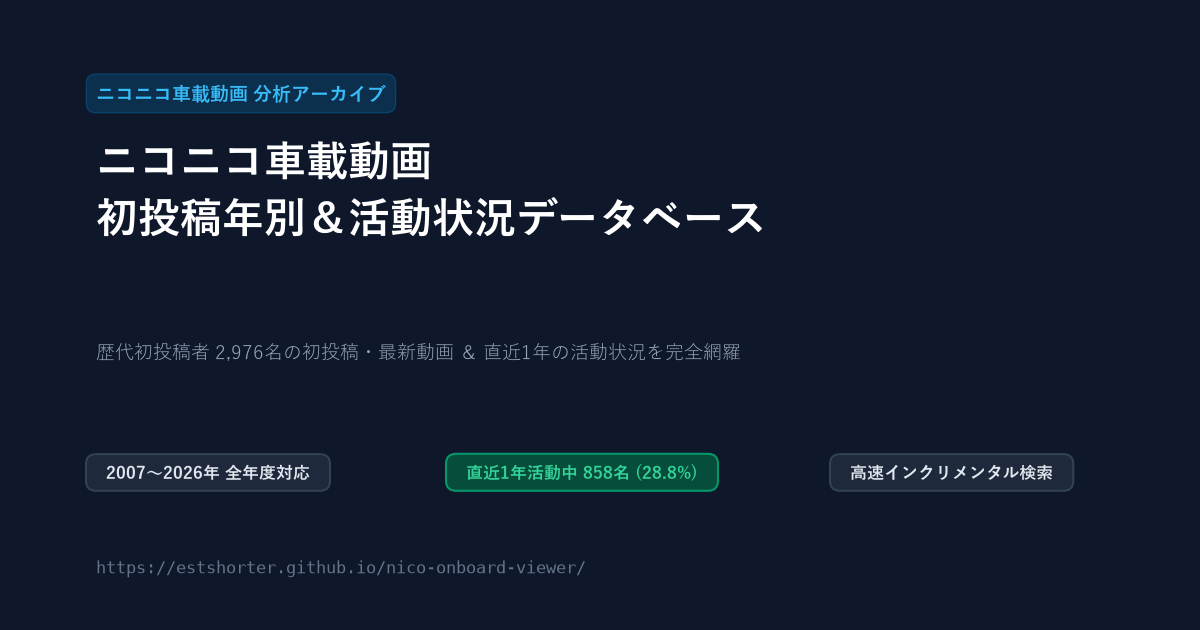
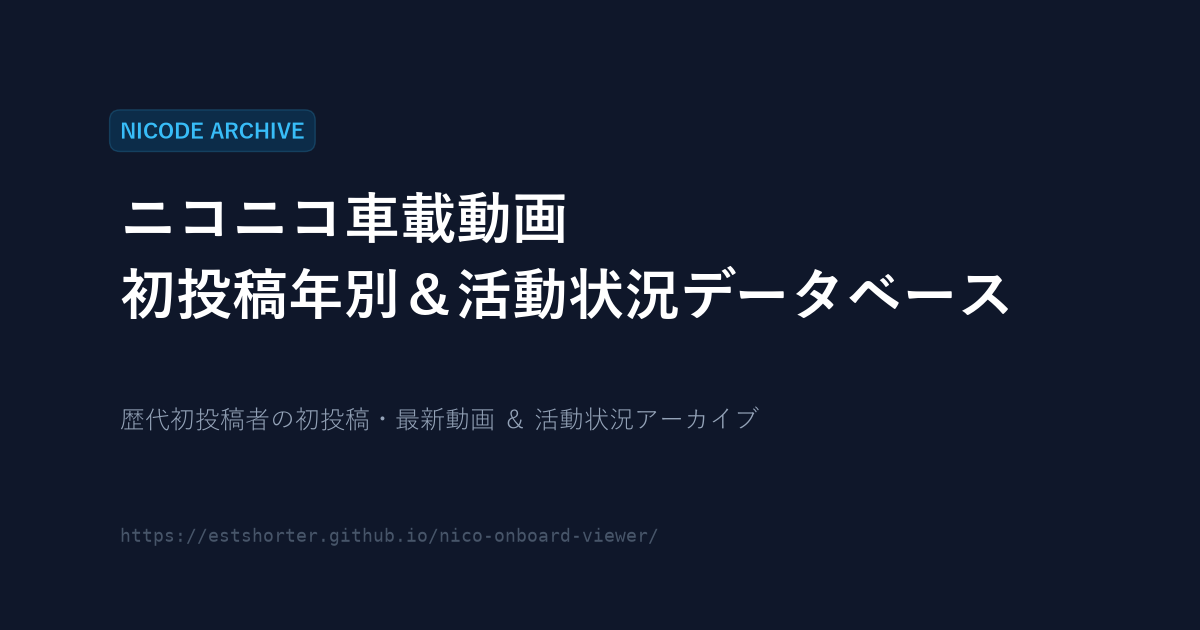
Update OGP image to clean minimal design focused on core message

diff --git a/generate_ogp.py b/generate_ogp.py
@@ -12,40 +12,27 @@ fig.patch.set_facecolor('#0f172a')
 ax.set_facecolor('#0f172a')
 ax.axis('off')
 
-# Background decorative rectangle
+# Background clean dark rectangle
 ax.add_patch(patches.Rectangle((0, 0), 1, 1, transform=ax.transAxes, color='#0f172a'))
 
-# Top Category Badge
-ax.text(0.08, 0.84, 'ニコニコ車載動画 分析アーカイブ', color='#38bdf8', fontsize=14, fontweight='bold',
-        bbox=dict(boxstyle='round,pad=0.5', facecolor='#0369a1', edgecolor='#0284c7', alpha=0.3),
+# Top Category Badge (Clean & Subtle)
+ax.text(0.1, 0.78, 'NICODE ARCHIVE', color='#38bdf8', fontsize=15, fontweight='bold',
+        bbox=dict(boxstyle='round,pad=0.5', facecolor='#0284c7', edgecolor='#38bdf8', alpha=0.2, linewidth=1),
         transform=ax.transAxes)
 
-# Main Title
-ax.text(0.08, 0.63, 'ニコニコ車載動画\n初投稿年別＆活動状況データベース', color='#ffffff', fontsize=30, fontweight='bold',
+# Main Title (The Core Message)
+ax.text(0.1, 0.50, 'ニコニコ車載動画\n初投稿年別＆活動状況データベース', color='#ffffff', fontsize=40, fontweight='bold',
         linespacing=1.35, transform=ax.transAxes)
 
-# Subtitle
-ax.text(0.08, 0.43, '歴代初投稿者 2,976名の初投稿・最新動画 ＆ 直近1年の活動状況を完全網羅', color='#94a3b8', fontsize=14,
+# Subtitle (Minimal context)
+ax.text(0.1, 0.32, '歴代初投稿者の初投稿・最新動画 ＆ 活動状況アーカイブ', color='#94a3b8', fontsize=18,
         transform=ax.transAxes)
 
-# Feature chips (no emojis to prevent missing glyph warnings)
-chips = [
-    ('2007〜2026年 全年度対応', '#1e293b', '#e2e8f0', '#334155'),
-    ('直近1年活動中 858名 (28.8%)', '#064e3b', '#34d399', '#059669'),
-    ('高速インクリメンタル検索', '#1e293b', '#e2e8f0', '#334155'),
-]
-
-x_positions = [0.08, 0.38, 0.70]
-for (chip_text, bg_col, text_col, border_col), x_pos in zip(chips, x_positions):
-    ax.text(x_pos, 0.24, f"  {chip_text}  ", color=text_col, fontsize=12, fontweight='bold',
-            bbox=dict(boxstyle='round,pad=0.6', facecolor=bg_col, edgecolor=border_col, linewidth=1.5),
-            transform=ax.transAxes)
-
-# Footer URL
-ax.text(0.08, 0.09, 'https://estshorter.github.io/nico-onboard-viewer/', color='#64748b', fontsize=12,
+# Subtle URL / Footer
+ax.text(0.1, 0.14, 'https://estshorter.github.io/nico-onboard-viewer/', color='#475569', fontsize=13,
         family='monospace', transform=ax.transAxes)
 
 output_path = r"C:\Users\estshorter\src\nico-onboard-viewer\ogp.png"
 plt.savefig(output_path, facecolor=fig.get_facecolor(), dpi=100)
 plt.close()
-print(f"Successfully generated clean OGP image: {output_path}")
+print(f"Successfully generated clean minimal OGP image: {output_path}")
